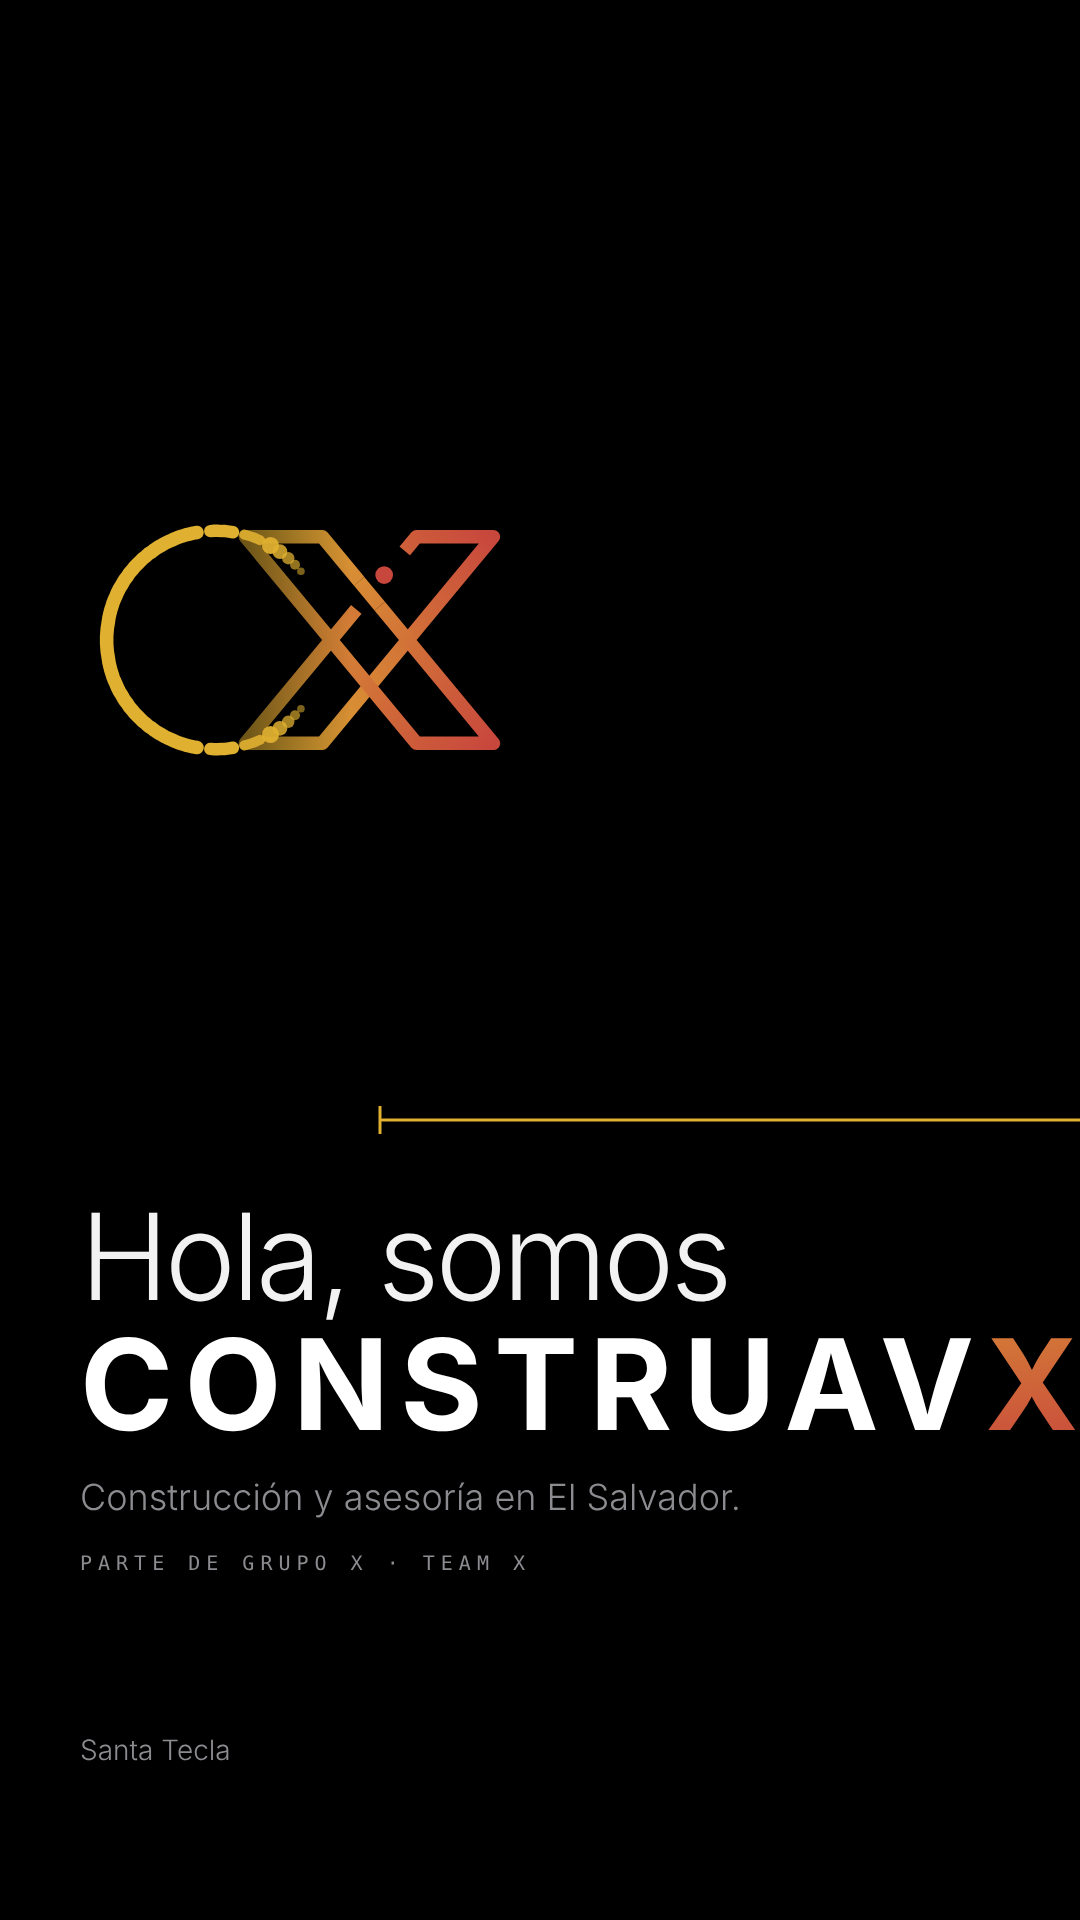
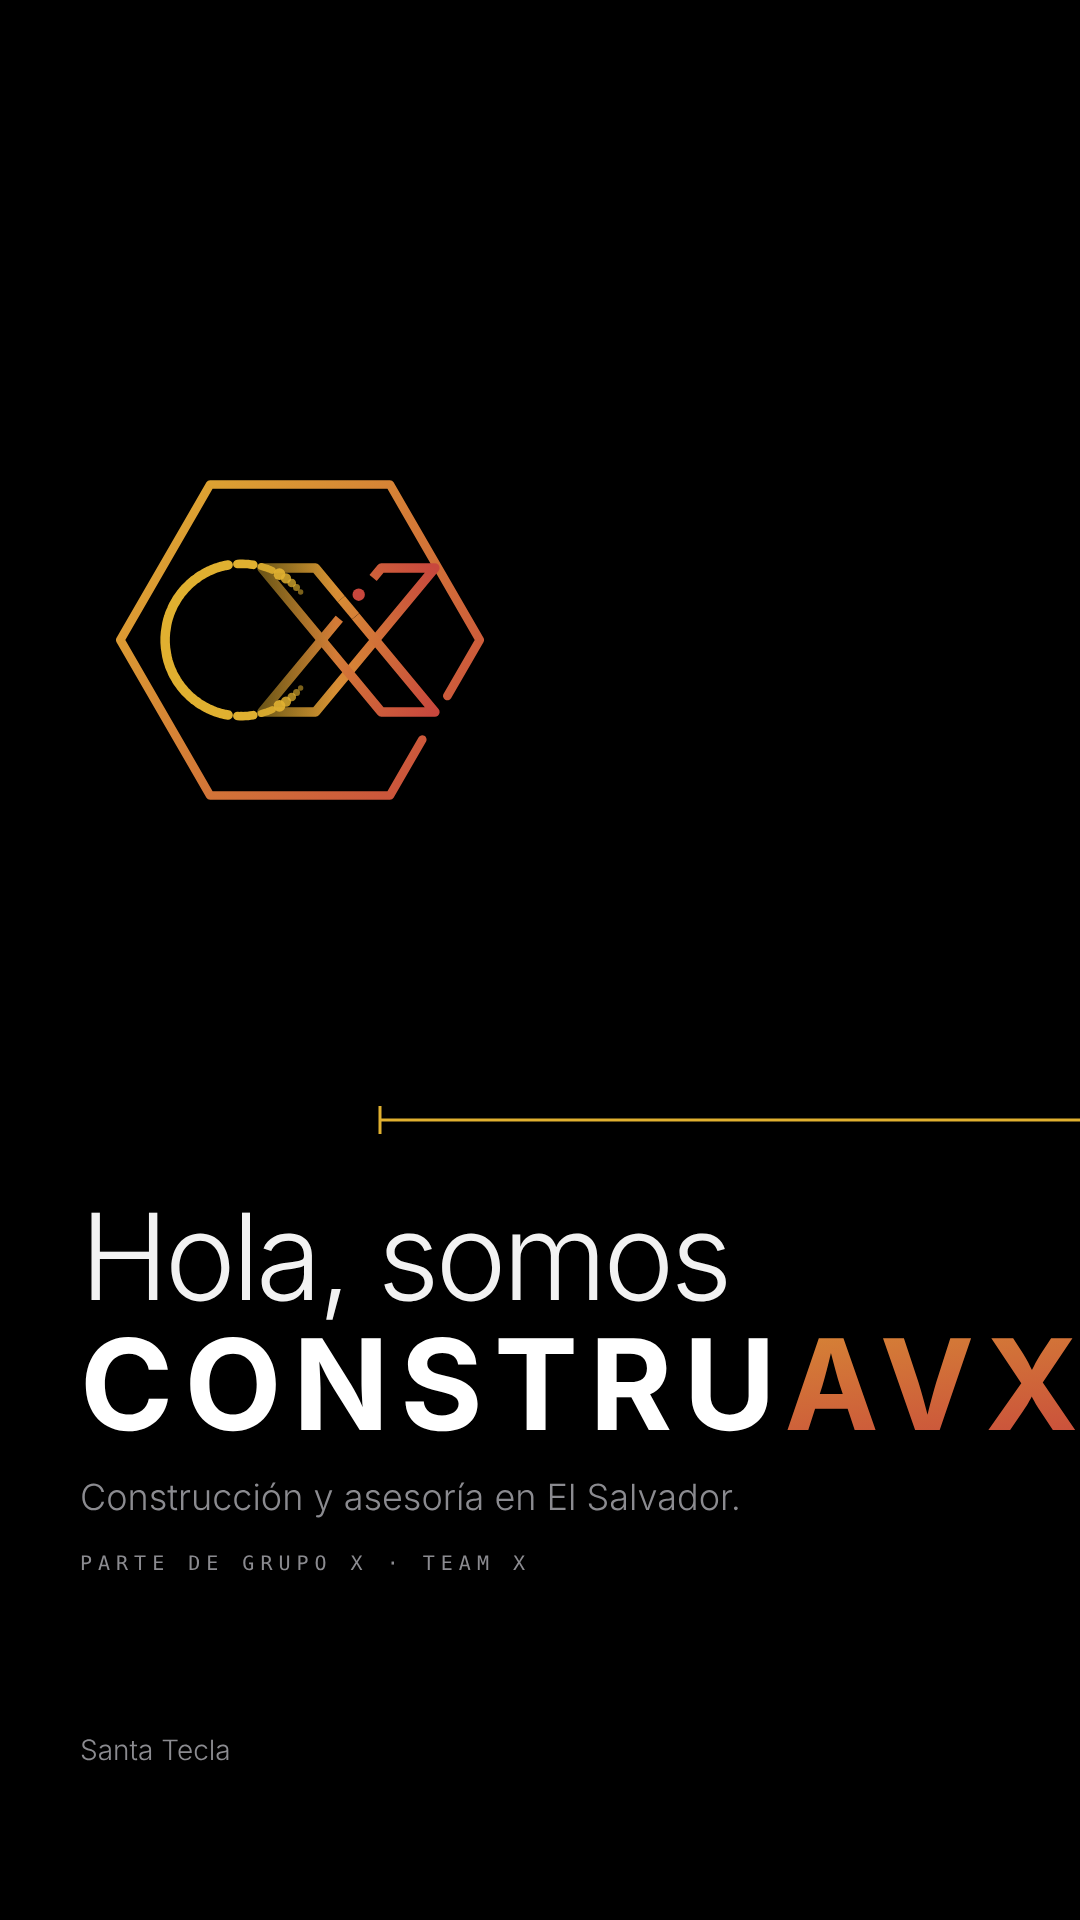
ConstruAVX: hexagon container, two-tone wordmark, tracked tagline
Claude-Session: https://claude.ai/code/session_01SyEUPzv47j4v1ivZ7w3zNj

Changed region(s): [[0.0917, 0.25, 0.4583, 0.4375], [0.7333, 0.6875, 0.9167, 0.75]]

diff --git a/branding/perfiles.md b/branding/perfiles.md
@@ -33,7 +33,7 @@
 
 ## ConstruAVX
 
-> **Símbolo propio: monograma CX.** La C nace sólida, con el mismo trazo que la X, y hacia la X se rompe en rayas cada vez más cortas y luego en puntos que se funden con la X; la X se difumina por su lado izquierdo. Las piezas ya no llevan estrellas de fondo. ProduAVX conserva la X sola, con su degradado azul→verde.
+> **Símbolo propio: monograma CX.** La C nace sólida, con el mismo trazo que la X, y hacia la X se rompe en rayas cada vez más cortas y luego en puntos que se funden con la X; la X se difumina por su lado izquierdo. El monograma va dentro de un hexágono con una abertura en el borde (referencia de obra). El nombre va en dos tonos: CONSTRU en blanco y AVX en degradado, con la frase en mayúsculas espaciadas. Las piezas ya no llevan estrellas de fondo. ProduAVX conserva la X sola, con su degradado azul→verde.
 
 - **Nombre:** ConstruAVX
 - **Usuario sugerido:** `@construavx`
